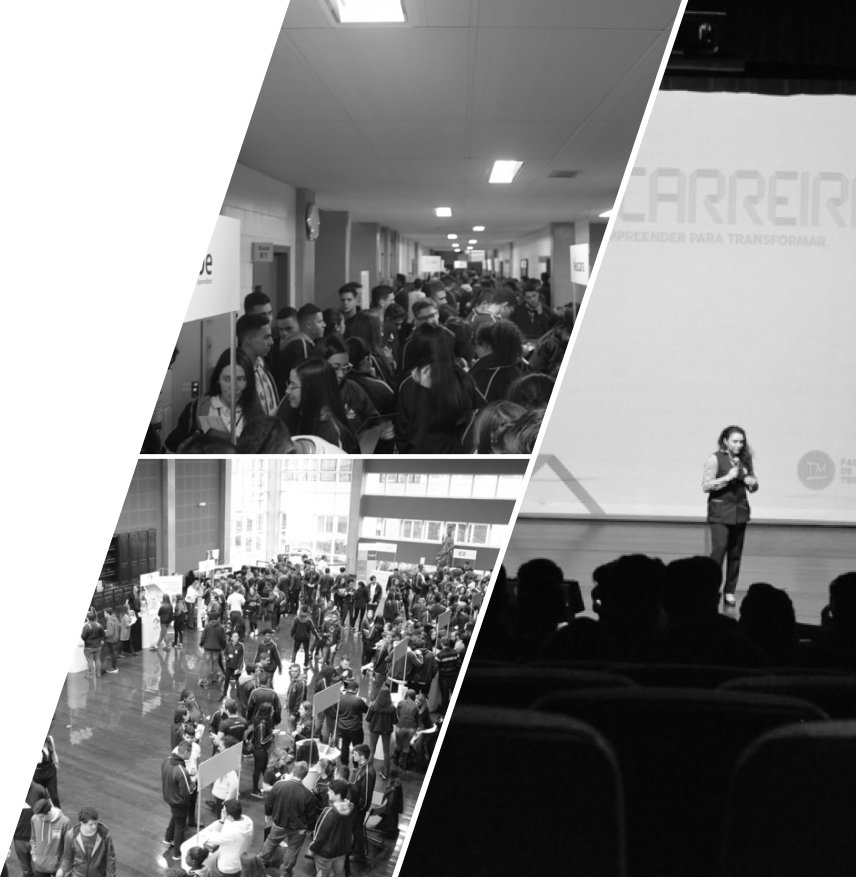
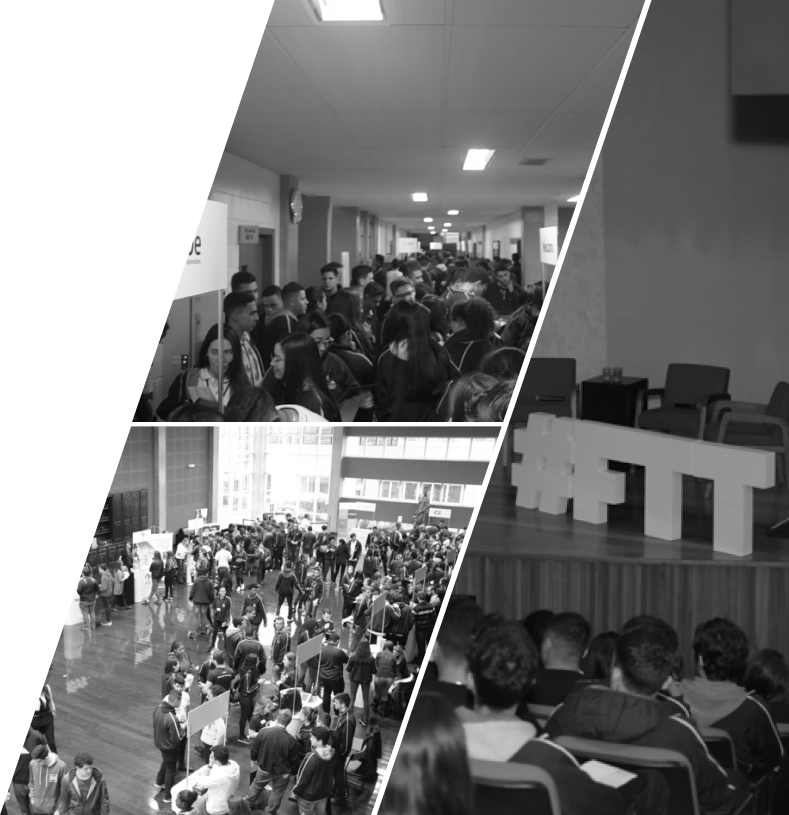
Ajustes de layout e att da foto da introduction

diff --git a/src/components/Jobs.vue b/src/components/Jobs.vue
@@ -23,7 +23,7 @@
               </div>
 
               <div :class="displayClass(job.site)" class="link-text">
-                <a :href="job.site" target="_blank">
+                <a :href="job.site" target="_blank" class="site">
                   <img
                     src="../assets/link.png"
                     alt="linkCompany"
@@ -78,6 +78,15 @@ a {
   text-decoration: none;
   color: #757575;
   word-break: break-all;
+  cursor: text;
+}
+
+.site {
+  cursor: pointer;
+}
+
+.site:hover {
+  text-decoration: underline;
 }
 
 .display-none {
@@ -108,7 +117,7 @@ a {
 }
 
 .link-text {
-  font-size: 14px;
+  font-size: 16px;
   margin-right: auto;
 }
 

diff --git a/src/components/Hiring.vue b/src/components/Hiring.vue
@@ -83,6 +83,10 @@ p {
   text-decoration: none;
 }
 
+.links a:hover {
+  text-decoration: underline;
+}
+
 .links a img {
   margin-right: 15px;
 }
@@ -111,7 +115,7 @@ p {
   cursor: pointer;
 }
 
-.links a label{
+.links a label {
   cursor: pointer;
 }
 
@@ -140,7 +144,7 @@ p {
 
   .links a {
     font-size: 13px;
-    word-break: break-word;
+    word-break: break-all;
   }
 }
 

diff --git a/src/components/HeaderCompany.vue b/src/components/HeaderCompany.vue
@@ -44,6 +44,10 @@ export default {
 </script>
 
 <style scoped>
+a:hover {
+  text-decoration: underline;
+}
+
 .display-none {
   display: none;
 }
